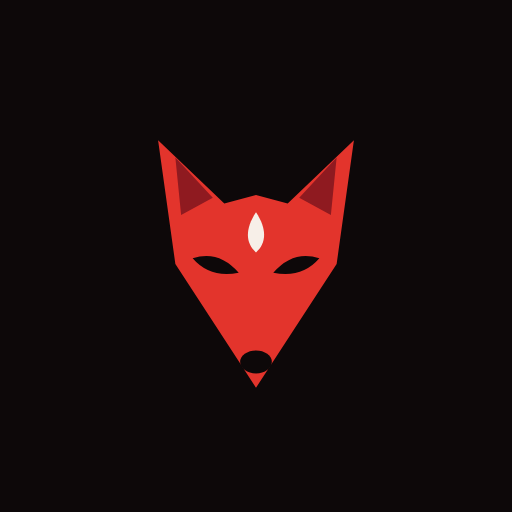
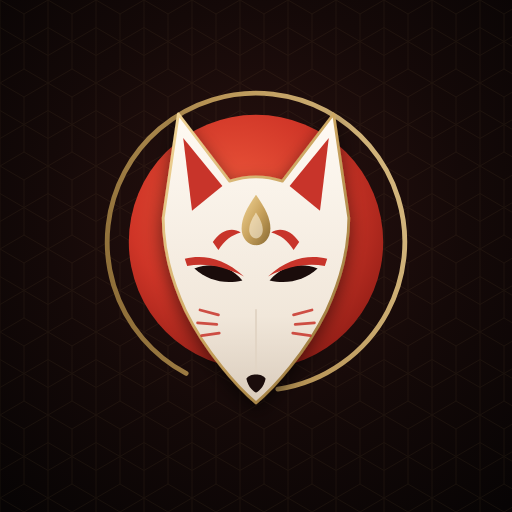
Icono nuevo y sello 狐 a pincel que se escribe en oro al abrir
- Icono: máscara de zorro Inari blanca con detalles bermellón y oro (joya en
  llamas en la frente, ojos rasgados, orejas rojas), sobre un sol bermellón y
  un ensō de oro, con fondo de noche y asanoha muy tenue. Generado desde
  assets/icono.svg en todos los tamaños (iPhone, Android con máscara, web,
  favicon y Windows).
- Sello de la cabecera y del bloqueo: 狐 a pincel (trazado de Yuji Boku, OFL)
  en un hanko bermellón con marco de oro. Al abrir se estampa, el kanji se
  escribe en oro trazo a trazo, se rellena en crema y lo cruza un brillo; en
  el móvil, cuando el diálogo ya ha salido de la boca del zorro. Sin
  animación si el sistema pide reducir el movimiento.

Claude-Session: https://claude.ai/code/session_01Y9SwYesrpm42FA6ARHbVpS

diff --git a/src/app/sello.js b/src/app/sello.js
@@ -1,0 +1,34 @@
+// El sello de Kitsune: 狐 («zorro») a pincel en un hanko bermellón con su marco
+// doble. Al abrir, el sello se estampa, el kanji se escribe en oro trazo a trazo
+// y se rellena, y un brillo lo cruza. El kanji va como trazado (de la fuente
+// Yuji Boku, licencia OFL): se ve igual en todos los dispositivos, sin fuentes.
+export const KANJI_ZORRO =
+  'M997 927 Q974 942 948 938 Q921 935 894 922 Q868 909 846 896 L844 895 Q828 869 814 834 Q801 799 791 763 Q781 727 775 698 Q761 659 745 606 Q729 554 713 496 Q697 438 680 382 Q664 326 649 280 Q631 290 615 302 Q599 313 585 320 Q584 329 590 335 Q597 341 605 347 Q613 352 620 358 Q626 363 629 371 Q622 418 622 464 Q623 511 624 557 Q626 605 626 652 Q626 699 618 744 Q616 756 625 755 Q625 756 623 759 Q620 770 618 782 Q615 795 623 804 Q641 793 652 774 Q663 755 676 738 Q676 717 670 705 Q663 693 655 682 Q647 672 642 657 Q677 666 705 692 Q733 719 748 758 Q763 796 759 841 Q746 852 736 848 Q727 843 718 835 Q714 832 711 829 Q708 826 704 824 Q677 861 658 887 Q638 913 603 936 Q571 916 540 894 Q510 871 497 827 Q512 830 526 834 Q541 838 553 844 Q570 768 568 680 Q566 593 561 498 Q559 459 557 420 Q555 380 554 340 Q523 368 484 370 Q445 373 415 348 Q459 325 508 300 Q557 275 596 229 Q601 235 608 232 Q614 230 622 225 Q626 222 628 221 Q628 219 626 213 Q625 209 625 207 Q625 205 631 205 Q627 191 618 184 Q608 176 604 161 Q605 160 607 158 Q611 155 610 150 Q625 158 642 160 Q659 163 675 164 Q700 166 722 172 Q743 179 754 209 Q731 229 709 248 Q687 267 658 269 Q685 294 703 330 Q721 367 736 408 Q750 448 766 486 Q783 524 807 553 Q848 688 938 775 Q939 788 948 800 Q956 813 966 826 Q975 839 979 856 Q980 862 984 863 Q989 864 992 867 Q992 874 993 880 Q994 886 995 892 Q997 901 998 910 Q999 918 997 927 Z M392 194 Q392 197 392 200 Q392 203 392 206 Q393 216 392 225 Q392 234 390 240 Q360 253 332 269 Q305 285 288 314 Q292 330 306 340 Q321 351 328 366 Q335 381 335 400 Q335 418 334 437 Q333 449 333 460 Q333 471 334 482 Q335 494 337 504 Q339 515 342 526 Q346 544 348 562 Q351 580 350 602 Q349 624 349 647 Q349 670 350 693 Q351 734 350 773 Q349 812 340 846 Q331 880 309 905 Q310 910 310 913 Q309 916 308 918 Q306 923 306 927 Q296 937 286 946 Q276 956 269 970 Q253 979 244 973 Q234 967 225 956 Q221 951 216 946 Q212 942 207 938 Q194 928 178 915 Q161 902 148 888 Q136 873 134 861 Q131 855 126 854 Q120 853 117 843 Q126 843 134 845 Q143 847 152 850 Q166 854 180 856 Q194 859 211 855 Q238 847 252 819 Q266 791 272 751 Q276 723 278 689 Q280 655 280 620 Q280 586 279 560 Q279 551 278 540 Q277 529 277 529 Q246 553 216 596 Q186 639 162 680 Q146 686 140 699 Q134 712 130 726 Q123 730 116 738 Q108 745 101 753 Q89 767 75 780 Q61 792 44 796 Q26 801 3 790 Q40 738 76 684 Q112 629 159 582 Q164 550 188 520 Q213 489 231 459 Q245 437 254 412 Q262 386 244 361 Q221 374 202 392 Q182 411 161 423 Q143 433 122 434 Q102 436 75 423 Q77 417 75 413 Q73 409 65 412 Q71 402 79 400 Q87 397 93 394 Q99 392 100 385 Q105 383 107 384 Q109 386 111 388 Q114 393 119 392 Q111 380 122 369 Q125 368 129 374 Q132 378 136 380 Q141 381 154 364 Q166 348 180 327 Q194 306 204 302 Q193 285 177 269 Q161 253 148 236 Q135 219 131 199 Q163 207 188 226 Q213 244 236 264 Q252 257 262 244 Q273 230 286 220 Q281 206 269 199 Q257 192 253 176 Q289 156 326 164 Q362 171 392 194 Z M495 436 Q495 445 496 454 Q496 464 496 474 Q498 541 498 610 Q498 678 489 735 Q480 792 455 825 Q454 836 454 838 Q454 839 456 851 Q449 852 448 856 Q446 860 446 865 Q446 869 444 872 Q443 875 437 874 Q443 880 441 883 Q439 886 435 889 Q431 892 427 897 Q423 902 425 912 Q407 914 397 925 Q387 936 378 948 Q375 950 375 942 Q376 932 371 933 Q375 929 375 926 Q375 922 374 919 Q373 914 374 911 Q376 908 390 906 Q392 900 387 898 Q381 897 383 891 Q389 889 393 876 Q397 863 402 848 Q406 832 413 822 Q413 818 411 820 Q426 782 434 727 Q442 672 443 608 Q444 543 437 475 Q427 458 417 446 Q407 435 398 421 Q390 407 384 383 Q415 393 446 403 Q476 413 495 436 Z';
+
+let n = 0;
+// El tamaño lo pone el CSS (el SVG llena su caja). Cada sello lleva sus propios ids.
+export function sello({ clase = '' } = {}) {
+  const id = `sello${++n}`;
+  return `<svg class="sello ${clase}" viewBox="0 0 100 100" aria-hidden="true" focusable="false">
+    <defs>
+      <linearGradient id="${id}-tinta" x1="0" y1="0" x2="1" y2="1">
+        <stop offset="0" stop-color="#e5503a"/><stop offset=".55" stop-color="#c8342a"/><stop offset="1" stop-color="#93201a"/>
+      </linearGradient>
+      <linearGradient id="${id}-oro" x1="0" y1="0" x2="1" y2="1">
+        <stop offset="0" stop-color="#f6dda3"/><stop offset=".5" stop-color="#d4ae68"/><stop offset="1" stop-color="#9c7838"/>
+      </linearGradient>
+      <linearGradient id="${id}-brillo" x1="0" y1="0" x2="1" y2="0">
+        <stop offset="0" stop-color="#fff" stop-opacity="0"/><stop offset=".5" stop-color="#fff" stop-opacity=".55"/><stop offset="1" stop-color="#fff" stop-opacity="0"/>
+      </linearGradient>
+      <clipPath id="${id}-caja"><rect x="3" y="3" width="94" height="94" rx="21"/></clipPath>
+    </defs>
+    <g class="sello__cuerpo">
+      <rect class="sello__tinta" x="3" y="3" width="94" height="94" rx="21" fill="url(#${id}-tinta)"/>
+      <rect class="sello__marco" x="9.5" y="9.5" width="81" height="81" rx="15" fill="none" stroke="url(#${id}-oro)" stroke-width="1.6"/>
+      <g transform="translate(15.9 11.6) scale(.068)">
+        <path class="sello__kanji" d="${KANJI_ZORRO}" pathLength="1" fill="#f8efe3" stroke="url(#${id}-oro)" stroke-width="22" stroke-linejoin="round"/>
+      </g>
+      <g clip-path="url(#${id}-caja)"><rect class="sello__brillo" x="-30" y="-30" width="34" height="160" fill="url(#${id}-brillo)"/></g>
+    </g>
+  </svg>`;
+}

diff --git a/src/app/app.css b/src/app/app.css
@@ -8790,3 +8790,146 @@ p.gastos__dia {
 .biblia__cifra-texto {
   font-size: 24px;
 }
+
+/* ---------- El sello 狐 (cabecera y bloqueo) ---------- */
+.marca__sello,
+:root.movil .marca__sello {
+  width: 30px;
+  height: 30px;
+  padding: 0;
+  border-radius: 0;
+  background: none;
+  box-shadow: none;
+  filter: drop-shadow(0 3px 6px rgba(150, 30, 20, 0.35));
+}
+
+:root.movil .marca__sello {
+  width: 34px;
+  height: 34px;
+}
+
+.dialogo:not([hidden]) .marca__sello {
+  animation: none;
+}
+
+.sello {
+  display: block;
+  width: 100%;
+  height: 100%;
+  overflow: visible;
+}
+
+.sello__cuerpo {
+  transform-box: view-box;
+  transform-origin: 50px 50px;
+  transform: rotate(-4deg);
+}
+
+.sello__kanji {
+  stroke-dasharray: 1;
+  stroke-dashoffset: 0;
+  stroke-opacity: 0;
+}
+
+.sello__brillo {
+  opacity: 0;
+  transform-box: view-box;
+  transform-origin: 50px 50px;
+  transform: rotate(22deg) translateX(-10px);
+}
+
+/* Al abrir: se estampa, el kanji se escribe en oro, se rellena y lo cruza un brillo. */
+.dialogo:not([hidden]) .marca__sello .sello__cuerpo,
+.bloqueo .sello__cuerpo {
+  animation: sello-estampa 0.62s cubic-bezier(0.3, 1.45, 0.5, 1) 0.12s backwards;
+}
+
+.dialogo:not([hidden]) .marca__sello .sello__kanji,
+.bloqueo .sello__kanji {
+  animation: sello-trazo 1.5s cubic-bezier(0.55, 0.1, 0.35, 1) 0.32s backwards;
+}
+
+.dialogo:not([hidden]) .marca__sello .sello__brillo,
+.bloqueo .sello__brillo {
+  animation: sello-brillo 0.9s ease-in-out 1.55s backwards;
+}
+
+@keyframes sello-estampa {
+  0% {
+    transform: scale(1.55) rotate(-18deg);
+    opacity: 0;
+  }
+  55% {
+    opacity: 1;
+  }
+  100% {
+    transform: rotate(-4deg);
+  }
+}
+
+@keyframes sello-trazo {
+  0% {
+    stroke-dashoffset: 1;
+    stroke-opacity: 1;
+    fill-opacity: 0;
+  }
+  62% {
+    stroke-dashoffset: 0;
+    stroke-opacity: 1;
+    fill-opacity: 0;
+  }
+  85% {
+    stroke-opacity: 0.9;
+    fill-opacity: 1;
+  }
+  100% {
+    stroke-dashoffset: 0;
+    stroke-opacity: 0;
+    fill-opacity: 1;
+  }
+}
+
+@keyframes sello-brillo {
+  0% {
+    opacity: 1;
+    transform: rotate(22deg) translateX(-10px);
+  }
+  100% {
+    opacity: 1;
+    transform: rotate(22deg) translateX(150px);
+  }
+}
+
+/* En el móvil el diálogo sale de la boca del zorro: el sello espera a que haya salido. */
+:root.movil .dialogo:not([hidden]) .marca__sello .sello__cuerpo {
+  animation-delay: 0.5s;
+}
+
+:root.movil .dialogo:not([hidden]) .marca__sello .sello__kanji {
+  animation-delay: 0.7s;
+}
+
+:root.movil .dialogo:not([hidden]) .marca__sello .sello__brillo {
+  animation-delay: 1.95s;
+}
+
+/* Bloqueo: el sello en grande. */
+.bloqueo__sello {
+  width: 96px;
+  height: 96px;
+  border-radius: 0;
+  background: none;
+  box-shadow: none;
+  filter: drop-shadow(0 18px 30px rgba(200, 52, 42, 0.38));
+}
+
+@media (prefers-reduced-motion: reduce) {
+  .dialogo:not([hidden]) .marca__sello .sello__cuerpo,
+  .dialogo:not([hidden]) .marca__sello .sello__kanji,
+  .dialogo:not([hidden]) .marca__sello .sello__brillo,
+  .bloqueo .sello__cuerpo,
+  .bloqueo .sello__kanji,
+  .bloqueo .sello__brillo {
+    animation: none;
+  }
+}

diff --git a/src/app/main.js b/src/app/main.js
@@ -7,6 +7,7 @@ import { crearAjustes } from './ajustes.js';
 import { crearEmpleo } from './empleo.js';
 import { crearGastos } from './gastos.js';
 import { crearBiblia } from './biblia.js';
+import { sello } from './sello.js';
 import { crearHoy } from './hoy.js';
 import { crearBuscador } from './buscador.js';
 import { crearAgenda, crearRecordatorios, crearMemoria, crearHistorial } from './vistas.js';
@@ -45,6 +46,8 @@ const PADRE = { recordatorios: 'agenda', historial: 'chat', memoria: 'chat' };
 const subAgenda = document.getElementById('sub-agenda');
 const botonesChat = [...document.querySelectorAll('.solo-chat')];
 for (const span of document.querySelectorAll('.apartado__icono')) span.innerHTML = icono(span.dataset.icono, 18);
+// El sello de la cabecera: 狐 a pincel que se escribe en oro cada vez que se abre.
+for (const s of document.querySelectorAll('.marca__sello')) s.innerHTML = sello();
 document.getElementById('boton-ajustes').innerHTML = icono('ajustes');
 document.getElementById('boton-cerrar').innerHTML = icono('cerrar');
 document.getElementById('boton-nueva').innerHTML = icono('conversacion');

diff --git a/src/app/web/bloqueo.js b/src/app/web/bloqueo.js
@@ -6,6 +6,7 @@
 // datos ya van cifrados en el dispositivo, y esto evita que se vean tu correo,
 // tu agenda o tus candidaturas sin tu cara. Si un día no puedes desbloquear,
 // la salida de emergencia borra los datos de Kitsune de este dispositivo.
+import { sello } from '../sello.js';
 
 const CLAVE = 'kitsune.bloqueo';
 export const OPCIONES_TRAS = [
@@ -134,7 +135,7 @@ export function prepararBloqueo() {
     capa.setAttribute('aria-label', 'Kitsune está bloqueado');
     capa.innerHTML = `
       <div class="bloqueo__caja">
-        <div class="bloqueo__sello" aria-hidden="true">狐</div>
+        <div class="bloqueo__sello" aria-hidden="true">${sello()}</div>
         <h2>Kitsune está bloqueado</h2>
         <p>Usa ${nombreBiometria()} para entrar.</p>
         <button type="button" class="boton boton--primario bloqueo__abrir">Desbloquear</button>
